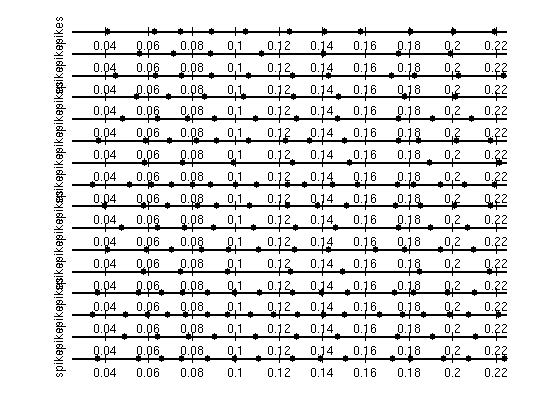
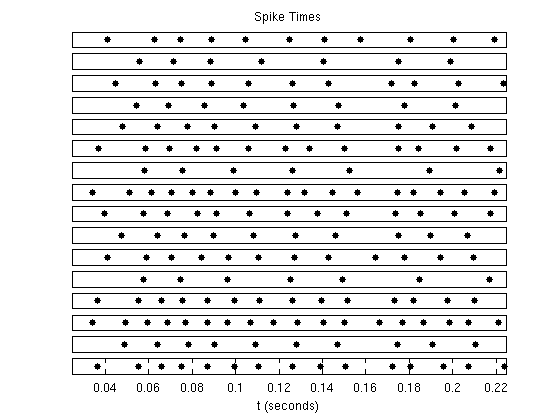
Tidy up the demo output a bit more.

Changed region(s): [[0.0911, 0.031, 0.9107, 0.9286], [0.4554, 0.9595, 0.5768, 0.9905]]

diff --git a/html/delay_demo.html b/html/delay_demo.html
@@ -6,7 +6,7 @@
    <!--
 This HTML is auto-generated from an M-file.
 To make changes, update the M-file and republish this document.
-      --><title>Neural Population Encoding using Filters with Arbitrary Delays</title><meta name="generator" content="MATLAB 7.9"><meta name="date" content="2010-03-15"><meta name="m-file" content="delay_demo"><style type="text/css">
+      --><title>Neural Population Encoding using Filters with Arbitrary Delays</title><meta name="generator" content="MATLAB 7.9"><meta name="date" content="2010-03-17"><meta name="m-file" content="delay_demo"><style type="text/css">
 
 body {
   background-color: white;
@@ -62,7 +62,7 @@ p.footer {
   color: gray;
 }
 
-  </style></head><body><div class="content"><h1>Neural Population Encoding using Filters with Arbitrary Delays</h1><!--introduction--><p>This demo illustrates the time encoding and decoding of a bandlimited signal using a population of ideal integrate-and-fire neurons with receptive fields that delay the signal by arbitrary known lengths of time.</p><!--/introduction--><h2>Contents</h2><div><ul><li><a href="#1">Generating a Test Signal</a></li><li><a href="#3">Creating Delayed Input Signals</a></li><li><a href="#6">Time Encoding</a></li><li><a href="#7">Time Decoding</a></li></ul></div><h2>Generating a Test Signal<a name="1"></a></h2><p>Generate a noiseless signal 0.25 s long sampled at 1 GHz containing maximum number of frequency components below 80Hz:</p><pre class="codeinput">dur = 0.25;
+  </style></head><body><div class="content"><h1>Neural Population Encoding using Filters with Arbitrary Delays</h1><!--introduction--><p>This demo illustrates the time encoding and decoding of a bandlimited signal using a population of ideal integrate-and-fire neurons with receptive fields that delay the signal by arbitrary known lengths of time.</p><!--/introduction--><h2>Contents</h2><div><ul><li><a href="#1">Generating a Test Signal</a></li><li><a href="#3">Creating Delayed Input Signals</a></li><li><a href="#6">Time Encoding</a></li><li><a href="#9">Time Decoding</a></li></ul></div><h2>Generating a Test Signal<a name="1"></a></h2><p>Generate a noiseless signal 0.25 s long sampled at 1 GHz containing maximum number of frequency components below 80Hz:</p><pre class="codeinput">dur = 0.25;
 fs = 1e6;
 dt = 1/fs;
 f = 80;
@@ -111,23 +111,26 @@ delay = exprnd(1/3/(2*f),[1,N]);           <span class="comment">% exponentially
 <span class="comment">%              t(tr_vc),u_s(2,:),t(tr_vc),u_s(3,:));</span>
 <span class="comment">% xlabel('Time [sec]'); ylabel('Amplitude');</span>
 <span class="comment">% title('Signal and Delayed Versions')</span>
-</pre><h2>Time Encoding<a name="6"></a></h2><pre class="codeinput"><span class="keyword">for</span> i=1:N
+</pre><h2>Time Encoding<a name="6"></a></h2><p>Encode the signals:</p><pre class="codeinput"><span class="keyword">for</span> i=1:N
     s = iaf_encode(u_s(i,:), dt, b(i), d(i)*kd(i));
     TK(1:length(s),i) = cumsum(s)' + t(tr_vc(1));  <span class="comment">% spike times of neuron i</span>
     LN(i) = length(s);                             <span class="comment">% number of spikes of neuron i</span>
 <span class="keyword">end</span>
-
-<span class="comment">% Plot spike times:</span>
-figure;
+</pre><p>Plot the spike times:</p><pre class="codeinput">figure;
 <span class="keyword">for</span> i=1:N
     subplot(N,1,i);
     plot(TK(1:LN(i),i)',ones(1,LN(i)),<span class="string">'k.'</span>,<span class="string">'markersize'</span>,18);
-    axis([t(tr_vc(1)) t(tr_vc(end)) 0.5 1.5])
-    <span class="comment">%set(gca,'xtick',[],'ytick',[])</span>
-    set(gca,<span class="string">'ytick'</span>,[])
-    ylabel(<span class="string">'spikes'</span>)
+    axis([t(tr_vc(1)) t(tr_vc(end)) 0.5 1.5]);
+    <span class="keyword">if</span> i == 1,
+        title(<span class="string">'Spike Times'</span>)
+    <span class="keyword">end</span>
+    <span class="keyword">if</span> i ~= N,
+        set(gca,<span class="string">'xtick'</span>,[]);
+    <span class="keyword">end</span>
+    set(gca,<span class="string">'ytick'</span>,[]);
 <span class="keyword">end</span>
-</pre><img vspace="5" hspace="5" src="delay_demo_02.png" alt=""> <h2>Time Decoding<a name="7"></a></h2><pre class="codeinput">ln = LN-1;  <span class="comment">% # of interspike intervals, i.e., samples</span>
+xlabel(<span class="string">'t (seconds)'</span>);
+</pre><img vspace="5" hspace="5" src="delay_demo_02.png" alt=""> <h2>Time Decoding<a name="9"></a></h2><pre class="codeinput">ln = LN-1;  <span class="comment">% # of interspike intervals, i.e., samples</span>
 ln2 = cumsum([0,ln]);
 </pre><p>Construct the G matrix:</p><pre class="codeinput">G = zeros(sum(ln),sum(ln));
 <span class="keyword">for</span> i=1:N
@@ -169,12 +172,12 @@ xlabel(<span class="string">'Time [sec]'</span>); title(<span class="string">'# 
 subplot(2,3,6);plot(t(tr_vc),u(tr_vc),t(tr_vc),u_rec(16,:));
 xlim(minmax(t(tr_vc)));
 xlabel(<span class="string">'Time [sec]'</span>); title(<span class="string">'# of Neurons: 16'</span>);
-</pre><img vspace="5" hspace="5" src="delay_demo_03.png" alt=""> <p>Compute and plot the MSE and SNR:</p><pre class="codeinput">tr_vc2 = round(0.15*length(t))+1:round(0.85*length(t)); <span class="comment">% time interval of interest</span>
+</pre><img vspace="5" hspace="5" src="delay_demo_03.png" alt=""> <p>Plot the MSE in terms of spike density:</p><pre class="codeinput">tr_vc2 = round(0.15*length(t))+1:round(0.85*length(t)); <span class="comment">% time interval of interest</span>
 
 <span class="keyword">for</span> i=1:N
     mse(i)=10*log10(mean(u_rec(i,tr_vc2-tr_vc(1)+1)-u(tr_vc2)).^2);
 <span class="keyword">end</span>
-</pre><p>Plot the MSE in terms of spike density:</p><pre class="codeinput">sp_den = (ln2(2:end)/(length(tr_vc)*dt))/(bw/pi);
+sp_den = (ln2(2:end)/(length(tr_vc)*dt))/(bw/pi);
 
 figure; plot(sp_den,mse,<span class="string">'k-o'</span>); hold <span class="string">on</span>;
 xlim(minmax(sp_den));
@@ -182,6 +185,8 @@ ylabel(<span class="string">'MSE (dB)'</span>);
 title(<span class="string">'MSE vs Spike Density and # of Neurons'</span>);
 
 set(gca,<span class="string">'XTick'</span>,sort([1-eps sp_den]));
+set(gca,<span class="string">'XTickLabel'</span>,arrayfun(@(x) sprintf(<span class="string">'%.2f'</span>,x), <span class="keyword">...</span>
+                              sort([1-eps sp_den]),<span class="string">'UniformOutput'</span>, false));
 xlimits = get(gca,<span class="string">'XLim'</span>);
 ylimits = get(gca,<span class="string">'YLim'</span>);
 plot(ones(1,100),ylimits(1):(ylimits(2)-ylimits(1))/99:ylimits(2),<span class="string">'k--'</span>)
@@ -192,11 +197,10 @@ text(xlimits(1)-(xlimits(2)-xlimits(1))*0.09, <span class="keyword">...</span>
      ylimits(1)-(ylimits(2)-ylimits(1))*0.04,<span class="string">'Rel. Rate:'</span>)
 text(xlimits(1)-(xlimits(2)-xlimits(1))*0.12, <span class="keyword">...</span>
      ylimits(1)-(ylimits(2)-ylimits(1))*0.08,<span class="string">'# of Neurons:'</span>)
-
-<span class="keyword">for</span> i=1:N
+</pre><img vspace="5" hspace="5" src="delay_demo_04.png" alt=""> <p>Plot the SNR in terms of spike density:</p><pre class="codeinput"><span class="keyword">for</span> i=1:N
     snr(i)=-10*log10(sum((u_rec(i,tr_vc2-tr_vc(1)+1)-u(tr_vc2)).^2)/sum(u(tr_vc).^2));
 <span class="keyword">end</span>
-</pre><img vspace="5" hspace="5" src="delay_demo_04.png" alt=""> <p>Plot the SNR in terms of spike density:</p><pre class="codeinput">sp_den=(cumsum(LN-1)/(length(tr_vc)*dt))/(bw/pi);
+sp_den=(cumsum(LN-1)/(length(tr_vc)*dt))/(bw/pi);
 
 figure; plot(sp_den,snr,<span class="string">'k-o'</span>); hold <span class="string">on</span>;
 xlim(minmax(sp_den));
@@ -204,6 +208,8 @@ ylabel(<span class="string">'SNR (dB)'</span>);
 title(<span class="string">'SNR vs Spike Density and # of Neurons'</span>);
 
 set(gca,<span class="string">'XTick'</span>,sort([1-eps sp_den]));
+set(gca,<span class="string">'XTickLabel'</span>,arrayfun(@(x) sprintf(<span class="string">'%.2f'</span>,x), <span class="keyword">...</span>
+                              sort([1-eps sp_den]),<span class="string">'UniformOutput'</span>, false));
 xlimits = get(gca,<span class="string">'XLim'</span>);
 ylimits = get(gca,<span class="string">'YLim'</span>);
 plot(ones(1,100),ylimits(1):(ylimits(2)-ylimits(1))/99:ylimits(2),<span class="string">'k--'</span>)
@@ -287,22 +293,30 @@ end
     
 %% Time Encoding
 
+%%
+% Encode the signals:
 for i=1:N
     s = iaf_encode(u_s(i,:), dt, b(i), d(i)*kd(i));
     TK(1:length(s),i) = cumsum(s)' + t(tr_vc(1));  % spike times of neuron i
     LN(i) = length(s);                             % number of spikes of neuron i
 end
 
-% Plot spike times:
+%%
+% Plot the spike times:
 figure;
 for i=1:N
     subplot(N,1,i);
     plot(TK(1:LN(i),i)',ones(1,LN(i)),'k.','markersize',18);
-    axis([t(tr_vc(1)) t(tr_vc(end)) 0.5 1.5])
-    %set(gca,'xtick',[],'ytick',[])
-    set(gca,'ytick',[])
-    ylabel('spikes')
+    axis([t(tr_vc(1)) t(tr_vc(end)) 0.5 1.5]);
+    if i == 1,
+        title('Spike Times')
+    end
+    if i ~= N,
+        set(gca,'xtick',[]);
+    end
+    set(gca,'ytick',[]);
 end
+xlabel('t (seconds)');
 
 %% Time Decoding
 
@@ -358,16 +372,14 @@ subplot(2,3,6);plot(t(tr_vc),u(tr_vc),t(tr_vc),u_rec(16,:));
 xlim(minmax(t(tr_vc)));
 xlabel('Time [sec]'); title('# of Neurons: 16');
 
-%% 
-% Compute and plot the MSE and SNR:
+%%
+% Plot the MSE in terms of spike density:
+
 tr_vc2 = round(0.15*length(t))+1:round(0.85*length(t)); % time interval of interest
 
 for i=1:N
     mse(i)=10*log10(mean(u_rec(i,tr_vc2-tr_vc(1)+1)-u(tr_vc2)).^2);
 end
-
-%%
-% Plot the MSE in terms of spike density:
 sp_den = (ln2(2:end)/(length(tr_vc)*dt))/(bw/pi);
 
 figure; plot(sp_den,mse,'k-o'); hold on;
@@ -376,6 +388,8 @@ ylabel('MSE (dB)');
 title('MSE vs Spike Density and # of Neurons');
 
 set(gca,'XTick',sort([1-eps sp_den]));
+set(gca,'XTickLabel',arrayfun(@(x) sprintf('%.2f',x), ...
+                              sort([1-eps sp_den]),'UniformOutput', false));
 xlimits = get(gca,'XLim');
 ylimits = get(gca,'YLim');
 plot(ones(1,100),ylimits(1):(ylimits(2)-ylimits(1))/99:ylimits(2),'kREPLACE_WITH_DASH_DASH')
@@ -386,13 +400,13 @@ text(xlimits(1)-(xlimits(2)-xlimits(1))*0.09, ...
      ylimits(1)-(ylimits(2)-ylimits(1))*0.04,'Rel. Rate:')
 text(xlimits(1)-(xlimits(2)-xlimits(1))*0.12, ...
      ylimits(1)-(ylimits(2)-ylimits(1))*0.08,'# of Neurons:')       
+
+%%
+% Plot the SNR in terms of spike density:
     
 for i=1:N
     snr(i)=-10*log10(sum((u_rec(i,tr_vc2-tr_vc(1)+1)-u(tr_vc2)).^2)/sum(u(tr_vc).^2));
 end
-
-%%
-% Plot the SNR in terms of spike density:
 sp_den=(cumsum(LN-1)/(length(tr_vc)*dt))/(bw/pi);
 
 figure; plot(sp_den,snr,'k-o'); hold on;
@@ -401,6 +415,8 @@ ylabel('SNR (dB)');
 title('SNR vs Spike Density and # of Neurons');
 
 set(gca,'XTick',sort([1-eps sp_den]));
+set(gca,'XTickLabel',arrayfun(@(x) sprintf('%.2f',x), ...
+                              sort([1-eps sp_den]),'UniformOutput', false));
 xlimits = get(gca,'XLim');
 ylimits = get(gca,'YLim');
 plot(ones(1,100),ylimits(1):(ylimits(2)-ylimits(1))/99:ylimits(2),'kREPLACE_WITH_DASH_DASH')

diff --git a/delay_demo.m b/delay_demo.m
@@ -68,22 +68,30 @@ end
     
 %% Time Encoding
 
+%%
+% Encode the signals:
 for i=1:N
     s = iaf_encode(u_s(i,:), dt, b(i), d(i)*kd(i));
     TK(1:length(s),i) = cumsum(s)' + t(tr_vc(1));  % spike times of neuron i
     LN(i) = length(s);                             % number of spikes of neuron i
 end
 
-% Plot spike times:
+%%
+% Plot the spike times:
 figure;
 for i=1:N
     subplot(N,1,i);
     plot(TK(1:LN(i),i)',ones(1,LN(i)),'k.','markersize',18);
-    axis([t(tr_vc(1)) t(tr_vc(end)) 0.5 1.5])
-    %set(gca,'xtick',[],'ytick',[])
-    set(gca,'ytick',[])
-    ylabel('spikes')
+    axis([t(tr_vc(1)) t(tr_vc(end)) 0.5 1.5]);
+    if i == 1,
+        title('Spike Times')
+    end
+    if i ~= N,
+        set(gca,'xtick',[]);
+    end
+    set(gca,'ytick',[]);
 end
+xlabel('t (seconds)');
 
 %% Time Decoding
 
@@ -139,16 +147,14 @@ subplot(2,3,6);plot(t(tr_vc),u(tr_vc),t(tr_vc),u_rec(16,:));
 xlim(minmax(t(tr_vc)));
 xlabel('Time [sec]'); title('# of Neurons: 16');
 
-%% 
-% Compute and plot the MSE and SNR:
+%%
+% Plot the MSE in terms of spike density:
+
 tr_vc2 = round(0.15*length(t))+1:round(0.85*length(t)); % time interval of interest
 
 for i=1:N
     mse(i)=10*log10(mean(u_rec(i,tr_vc2-tr_vc(1)+1)-u(tr_vc2)).^2);
 end
-
-%%
-% Plot the MSE in terms of spike density:
 sp_den = (ln2(2:end)/(length(tr_vc)*dt))/(bw/pi);
 
 figure; plot(sp_den,mse,'k-o'); hold on;
@@ -157,6 +163,8 @@ ylabel('MSE (dB)');
 title('MSE vs Spike Density and # of Neurons');
 
 set(gca,'XTick',sort([1-eps sp_den]));
+set(gca,'XTickLabel',arrayfun(@(x) sprintf('%.2f',x), ...
+                              sort([1-eps sp_den]),'UniformOutput', false));
 xlimits = get(gca,'XLim');
 ylimits = get(gca,'YLim');
 plot(ones(1,100),ylimits(1):(ylimits(2)-ylimits(1))/99:ylimits(2),'k--')
@@ -167,13 +175,13 @@ text(xlimits(1)-(xlimits(2)-xlimits(1))*0.09, ...
      ylimits(1)-(ylimits(2)-ylimits(1))*0.04,'Rel. Rate:')
 text(xlimits(1)-(xlimits(2)-xlimits(1))*0.12, ...
      ylimits(1)-(ylimits(2)-ylimits(1))*0.08,'# of Neurons:')       
+
+%%
+% Plot the SNR in terms of spike density:
     
 for i=1:N
     snr(i)=-10*log10(sum((u_rec(i,tr_vc2-tr_vc(1)+1)-u(tr_vc2)).^2)/sum(u(tr_vc).^2));
 end
-
-%%
-% Plot the SNR in terms of spike density:
 sp_den=(cumsum(LN-1)/(length(tr_vc)*dt))/(bw/pi);
 
 figure; plot(sp_den,snr,'k-o'); hold on;
@@ -182,6 +190,8 @@ ylabel('SNR (dB)');
 title('SNR vs Spike Density and # of Neurons');
 
 set(gca,'XTick',sort([1-eps sp_den]));
+set(gca,'XTickLabel',arrayfun(@(x) sprintf('%.2f',x), ...
+                              sort([1-eps sp_den]),'UniformOutput', false));
 xlimits = get(gca,'XLim');
 ylimits = get(gca,'YLim');
 plot(ones(1,100),ylimits(1):(ylimits(2)-ylimits(1))/99:ylimits(2),'k--')
